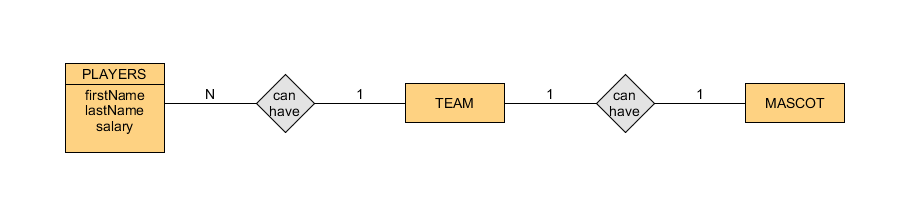
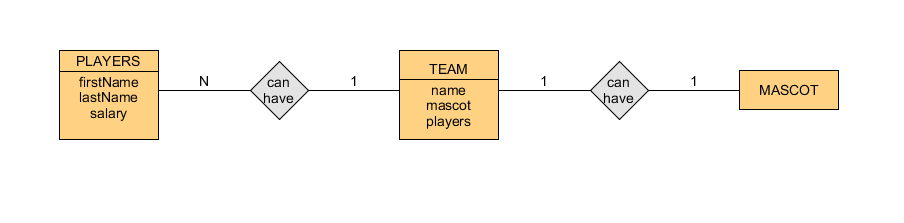
added doc with diagrams.

diff --git a/database.html b/database.html
@@ -66,8 +66,8 @@
                         <p>WEB 335 WhatABook Data Structure</p>
                     </div>
                     <div class="column">
-                        <p><a href="databasediagrams/gonzalez-capstone.png" target="_blank">Capstone Teams ORD diagram</a></p>
-                        <p>WEB 420 Capstone ORD diagram.</p>
+                        <p><a href="databasediagrams/Gonzalez - Capstone diagrams.docx" target="_blank">Capstone Teams ORD diagram and data structures</a></p>
+                        <p>WEB 420 Capstone ORD diagram and data structure.</p>
                     </div>
                 </div>
                 <span class="sentence"></span>
